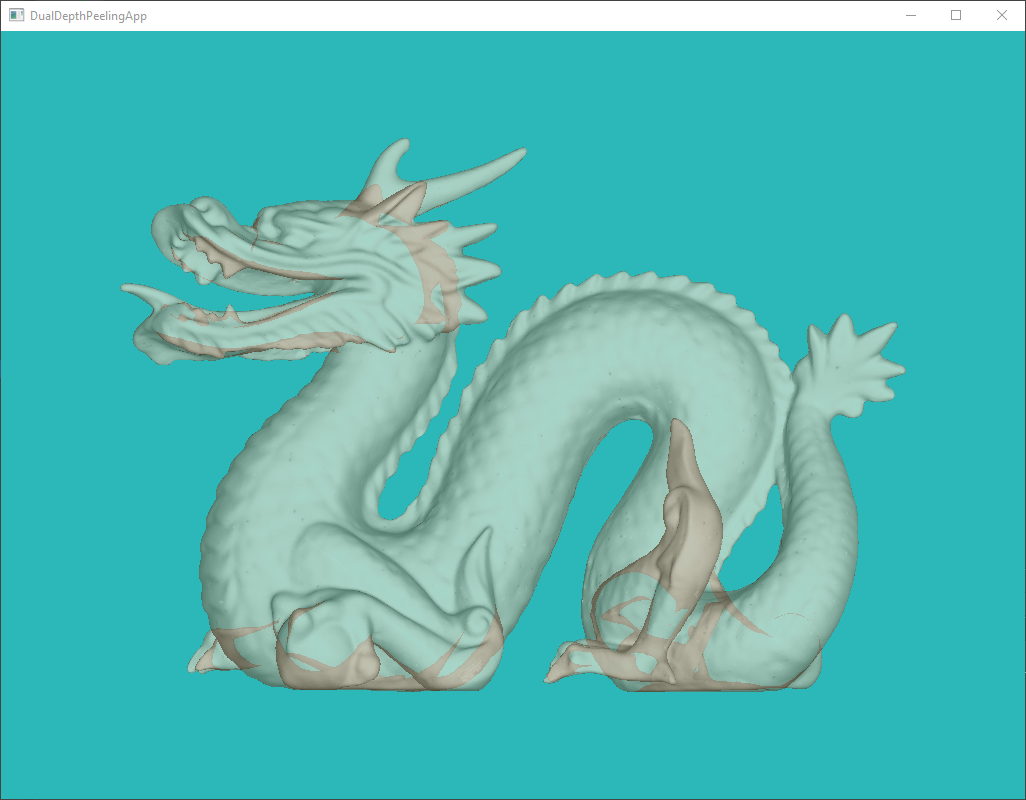
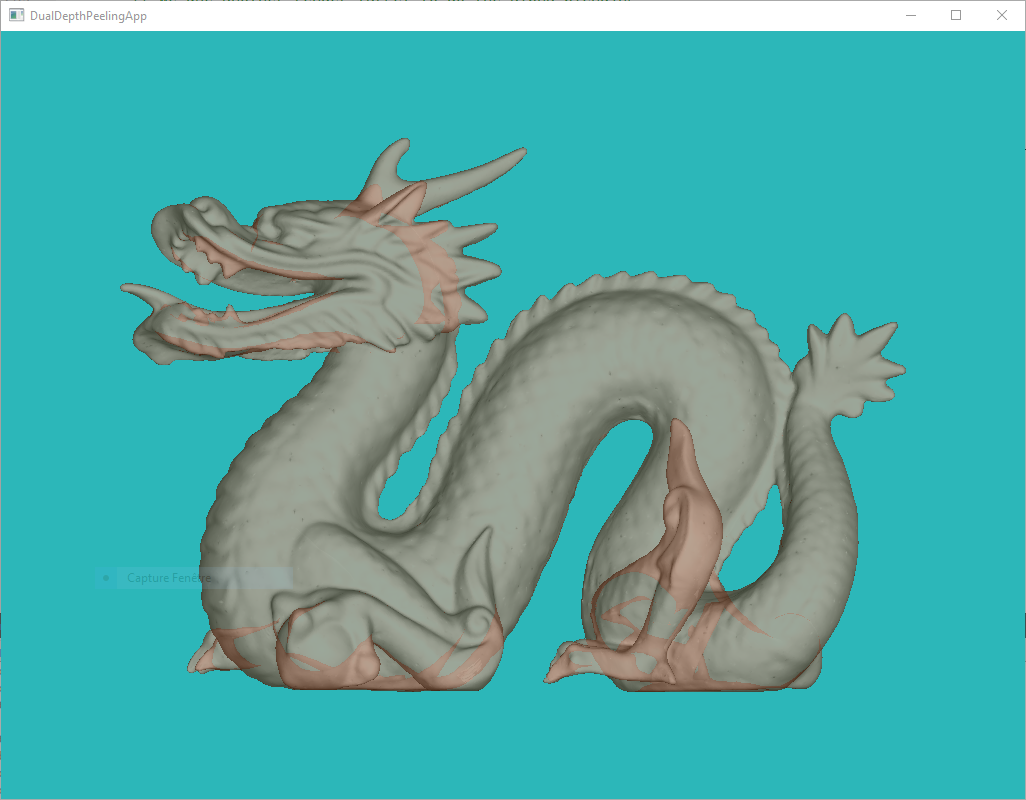
fix compilation on windows msvc

diff --git a/Gui/Renderers/UnorderedTransparency/DualDepthPeelingRenderer.cpp b/Gui/Renderers/UnorderedTransparency/DualDepthPeelingRenderer.cpp
@@ -259,7 +259,7 @@ namespace gui::gl
         // we use another render target to do the alpha blending
         //glBindFramebuffer(GL_FRAMEBUFFER, g_dualBackBlenderFboId);
         glDrawBuffer(DRAW_BUFFERS[6]);
-        glClearColor(0.f, 0.f, 0.f, 0.f);
+        glClearColor(m_backgroundColor[0], m_backgroundColor[1], m_backgroundColor[2], 0);
         glClear(GL_COLOR_BUFFER_BIT);
 
         size_t currId{ 0 };
@@ -273,7 +273,7 @@ namespace gui::gl
             //glBindFramebuffer(GL_FRAMEBUFFER, m_dualPeelingFboId[currId]);
 
             glDrawBuffers(2, &DRAW_BUFFERS.at(bufId + 1));
-            glClearColor(m_backgroundColor[0], m_backgroundColor[1], m_backgroundColor[2], 0);
+            glClearColor(0.f, 0.f, 0.f, 0.f);
             glClear(GL_COLOR_BUFFER_BIT);
 
             glDrawBuffer(DRAW_BUFFERS.at(bufId + 0));

diff --git a/Gui/GLWidgets/MainWidget.cpp b/Gui/GLWidgets/MainWidget.cpp
@@ -20,7 +20,7 @@ MainWidget::MainWidget(QWidget *parent) : GLWidget(parent)
     m_camera.setZoom(1.);
 
     static const QColor skyColor(44, 183, 185);
-    m_transparencyRenderer.setBackgroundColor(QVector3D{ skyColor.redF(), skyColor.greenF(), skyColor.blueF() });
+    m_transparencyRenderer.setBackgroundColor(QVector3D(skyColor.redF(), skyColor.greenF(), skyColor.blueF()));
 }
 
 //---------------------------------------------------------------------------------------
@@ -178,6 +178,9 @@ void MainWidget::paintGL()
 //---------------------------------------------------------------------------------------
 {
     GLWidget::paintGL();
+
+    glClearColor(0, 0, 0, 0);
+    glClear(GL_COLOR_BUFFER_BIT | GL_DEPTH_BUFFER_BIT);
 
 #ifdef AUTO_SHADER
     if (!m_transparencyRenderer.isInitialized())

diff --git a/App/main.cpp b/App/main.cpp
@@ -27,7 +27,11 @@ int main(int argc, char *argv[])
 
     QApplication a(argc, argv);
     MainWidget w;
+#ifdef Q_CC_MSVC
+    w.setModelFilepath("./dragon.obj");
+#else
     w.setModelFilepath(":/Model/dragon.obj");
+#endif
     w.setMinimumSize(1024, 768);
     w.show();
     return a.exec();
